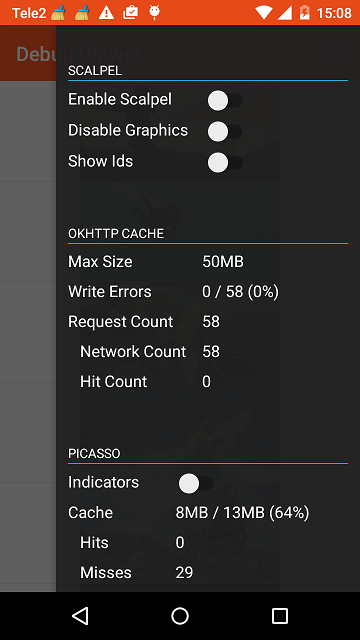
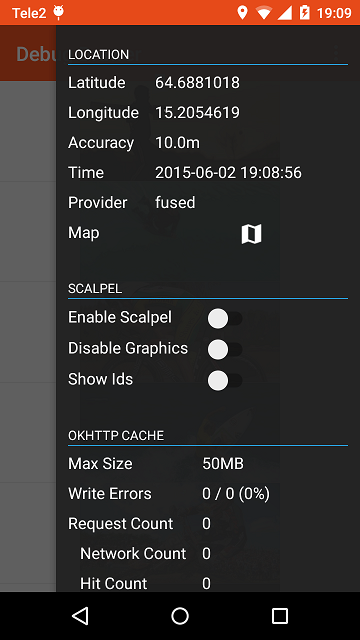
released 0.3.0

diff --git a/README.md b/README.md
@@ -39,9 +39,13 @@ Thanks [ebabel](https://github.com/ebabel) for contributing.
 
 ![](https://github.com/palaima/DebugDrawer/raw/master/images/scalpel.png)
 
-## TODO Features
+`LocationModule` - common location information (requires extra dependency)
 
-`LocationModule`, `LogsModule`
+![](https://github.com/palaima/DebugDrawer/raw/master/images/location.png)
+
+## TODO Modules
+`LogsModule`
+You are always welcome to suggest modules!
 
 ## Getting Started
 
@@ -49,48 +53,58 @@ Add Gradle dependency:
 
 ```gradle
 dependencies {
-   compile 'io.palaima.debugdrawer:debugdrawer:0.2.1'
+   compile 'io.palaima.debugdrawer:debugdrawer:0.3.0'
 }
 ```
 
 If you are using popular [OkHttp](https://github.com/square/okhttp) library. Probably you will be interesting in network statistics
 ```gradle
 dependencies {
-   compile 'io.palaima.debugdrawer:debugdrawer-okhttp:0.2.1'
+   compile 'io.palaima.debugdrawer:debugdrawer-okhttp:0.3.0'
 }
 ```
 
 Or if you are using [Picasso](https://github.com/square/picasso) library, also from Square Inc.
 ```gradle
 dependencies {
-   compile 'io.palaima.debugdrawer:debugdrawer-picasso:0.2.1'
+   compile 'io.palaima.debugdrawer:debugdrawer-picasso:0.3.0'
 }
 ```
 
 `ScalpelModule`
 ```gradle
 dependencies {
-   compile 'io.palaima.debugdrawer:debugdrawer-scalpel:0.2.1'
+   compile 'io.palaima.debugdrawer:debugdrawer-scalpel:0.3.0'
+}
+```
+
+`LocationModule`
+```gradle
+dependencies {
+   compile 'io.palaima.debugdrawer:debugdrawer-location:0.3.0'
 }
 ```
 
 * Or
-[DebugDrawer Download from Maven](https://oss.sonatype.org/content/repositories/releases/io/palaima/debugdrawer/debugdrawer/0.2.1/debugdrawer-0.2.1.aar)
+[DebugDrawer Download from Maven](https://oss.sonatype.org/content/repositories/releases/io/palaima/debugdrawer/debugdrawer/0.3.0/debugdrawer-0.3.0.aar)
 
 * Or
-[DebugDrawer-Picasso Download from Maven](https://oss.sonatype.org/content/repositories/releases/io/palaima/debugdrawer/debugdrawer-picasso/0.2.1/debugdrawer-picasso-0.2.1.aar)
+[DebugDrawer-Picasso Download from Maven](https://oss.sonatype.org/content/repositories/releases/io/palaima/debugdrawer/debugdrawer-picasso/0.3.0/debugdrawer-picasso-0.3.0.aar)
 
 * Or
-[DebugDrawer-OkHttp Download from Maven](https://oss.sonatype.org/content/repositories/releases/io/palaima/debugdrawer/debugdrawer-okhttp/0.2.1/debugdrawer-okhttp-0.2.1.aar)
+[DebugDrawer-OkHttp Download from Maven](https://oss.sonatype.org/content/repositories/releases/io/palaima/debugdrawer/debugdrawer-okhttp/0.3.0debugdrawer-okhttp-0.3.0.aar)
 
 * Or
-[DebugDrawer-Scalpel Download from Maven](https://oss.sonatype.org/content/repositories/releases/io/palaima/debugdrawer/debugdrawer-scalpel/0.2.1/debugdrawer-scalpel-0.2.1.aar)
+[DebugDrawer-Scalpel Download from Maven](https://oss.sonatype.org/content/repositories/releases/io/palaima/debugdrawer/debugdrawer-scalpel/0.3.0/debugdrawer-scalpel-0.3.0.aar)
+
+* Or
+[DebugDrawer-Location Download from Maven](https://oss.sonatype.org/content/repositories/releases/io/palaima/debugdrawer/debugdrawer-location/0.3.0/debugdrawer-location-0.3.0.aar)
 
 You can try the SNAPSHOT version:
 
 ```gradle
 dependencies {
-   compile 'io.palaima.debugdrawer:debugdrawer:0.3.0-SNAPSHOT'
+   compile 'io.palaima.debugdrawer:debugdrawer:0.4.0-SNAPSHOT'
 }
 ```
 Make sure to add the snapshot repository:
@@ -115,6 +129,7 @@ protected void onCreate(Bundle savedInstanceState) {
     super.onCreate(savedInstanceState);
     if (BuildConfig.DEBUG) {
         mDebugDrawer = new DebugDrawer.Builder(this).modules(
+                new LocationModule(this),
                 new ScalpelModule(this),
                 new OkHttpModule(mOkHttpClient),
                 new PicassoModule(mPicasso),
@@ -128,7 +143,7 @@ protected void onCreate(Bundle savedInstanceState) {
 ```
 
 ### 2. onStart/onStop
-If you use NetworkModule or your own which is hooked with BroadcastReceivers you must call onStart/onStop in your activity
+If you use `NetworkModule`/`LocationModule` or your own which is hooked with BroadcastReceivers you must call onStart/onStop in your activity
 
 ```java
 @Override
